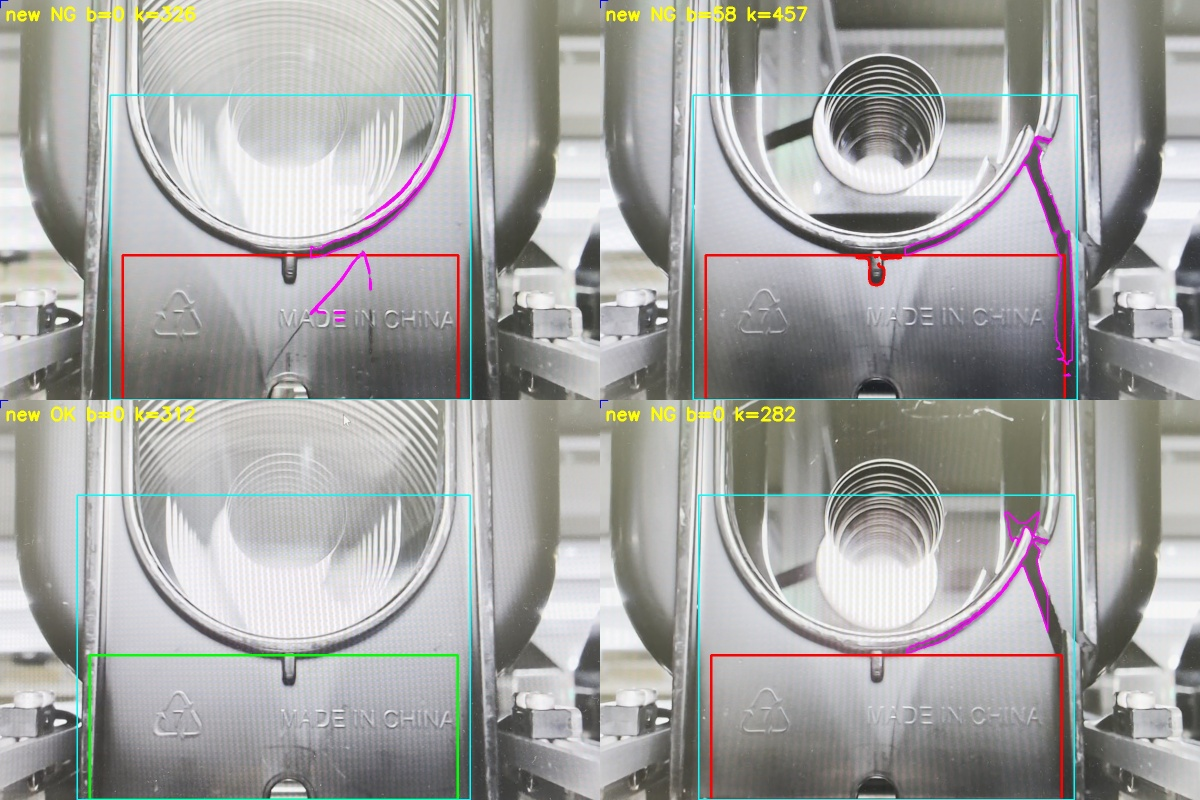
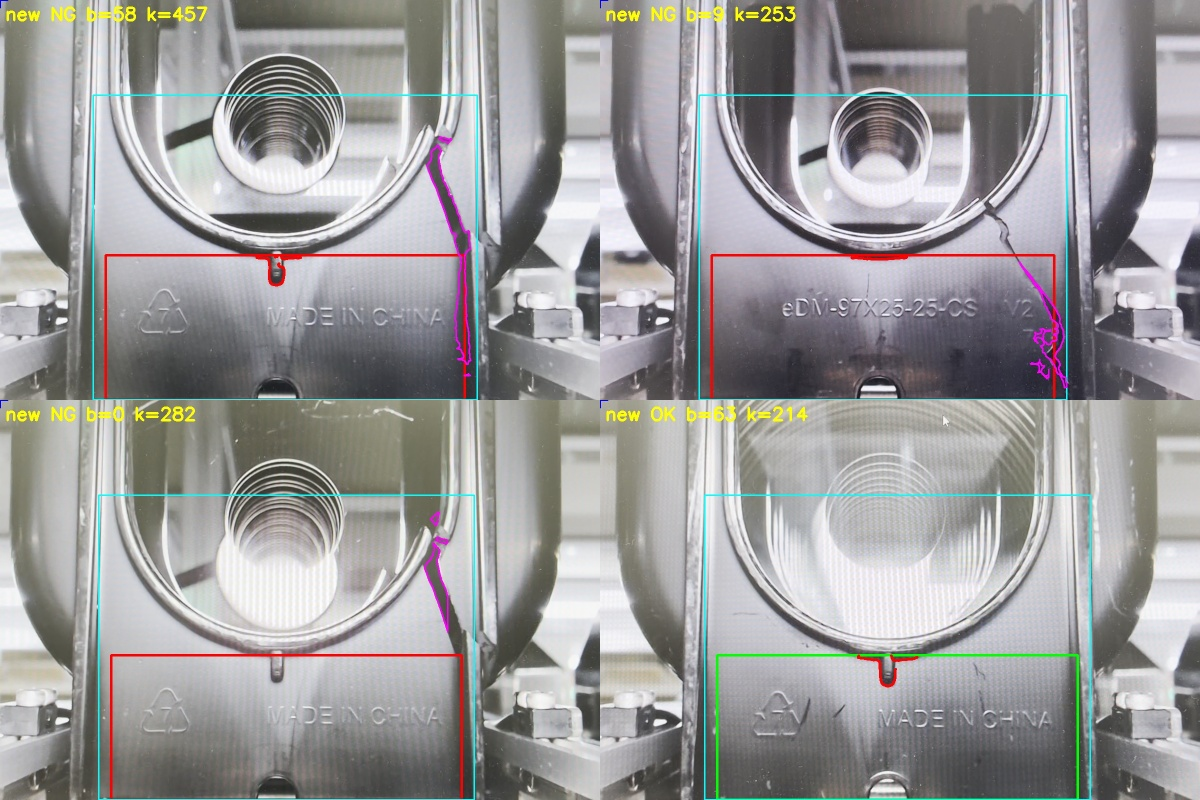
黒ワレ判定からU字の形（中心・半径・円）を外す
縁取りは周りより明るい細い線として画像から拾い、外縁からの距離で線の内側の端を決める。
縁取り沿いの暗い輪郭は、縁から離れた部分の長さで除く。

Claude-Session: https://claude.ai/code/session_01AGHVZAzegJVfdU4wL5nFmJ

diff --git a/legacy/inspect_crack_v2.py b/legacy/inspect_crack_v2.py
@@ -120,25 +120,31 @@ DEFAULT_PARAMS = {
     "template_threshold": 0.0,
     # ---- v2 の黒ワレ判定用 ----
     "black_groove_dist": 60,    # 端からこの距離以内を縦に走る細い線は「縦リブの内側の溝」とみなして除く [px]
-    "black_groove_width": 30, "black_groove_frac": 0.5, "black_groove_pad": 12,   # その線の横幅がこれ未満なら溝（割れは斜めに走るので横幅が出る） [px]
+    "black_groove_width": 30,   # その線の横幅がこれ未満なら溝（割れは斜めに走るので横幅が出る） [px]
+    "black_groove_frac": 0.5,   # 端の近くで、列の高さのこの割合以上が暗い列は溝として消す
+    "black_groove_pad": 12,     # 溝の列の左右この幅も一緒に消す [px]
     "black_edge_margin": 15,    # カセットの左右の端からこの幅は探さない（縦リブの黒い線） [px]
     "black_top_cut": 0.2,       # 切り出しの上からこの割合 × radius の行は見ない（カセットの上の縁を拾わないため）
-    "black_inner_ratio": 1.0,   # 探す範囲の内側の円の半径（radius の何倍か）
     "black_gate_half": 40,      # 中央のゲート（成形線）として除外する幅の半分 [px]
     "black_bh_th": 20,          # ブラックハット（周りより暗い度合い）がこれより大きい画素を黒い線とみなす
     "black_join": 9,            # 途切れた線をつなぐ大きさ [px]
     "black_link": 25,           # 暗いと認めた線どうしがこの距離以内なら同じ割れとしてまとめる [px]
     "black_dark_ratio": 0.55,   # 線の中の暗い所（下位10%）が、プレートの明るさのこの割合以下なら本物の黒い線
-    "black_rim_tol": 30,        # 線の上端のまわりこの距離以内（中心寄り）に白い縁取りがあれば「縁に届いた」 [px]
-    "black_rim_bright": 0.5,    # 縁取りの白さの目安: プレートの明るさと、U字のまわりの上位1%の明るさの間のこの位置
-    "black_follow_len": 120,    # 線の上の端から縁取りまで、暗い所をたどる最大の長さ [px]
+    "black_rim_tol": 30,        # 線の内側の端のまわりこの距離以内に白い縁取りがあれば「縁に届いた」 [px]
+    "black_follow_len": 200,    # 線の内側の端から縁取りまで、暗い所をたどる最大の長さ [px]
     "black_follow_ratio": 0.80, # たどるとき「暗い」とみなす明るさ（プレートの明るさのこの割合以下）
     "black_follow_side": 4,     # たどるとき、横に何 px まで暗い所を探すか
     "black_follow_contrast": 15,  # まわりよりこれだけ暗ければ、割れの続きとみなす
     "black_follow_gap": 12,     # 暗くない所がこれ以上続いたら、つながっていないとみなす [px]
-    "black_min_radial": 0.5,    # 線が中心から外へ向かって radius のこの割合以上伸びていること（縁に沿う暗い輪郭を除く）
+    "black_min_len": 150,       # 割れとみなす線の長さの下限 [px]
+    "black_rim_len": 200,       # 白く光る細い線がこれ以上長ければ縁取りとみなす [px]
+    "black_far_dist": 30,       # 縁取りからこれより離れた部分を「縁から離れた部分」とする [px]
+    "black_far_len": 100,       # 縁から離れた部分の長さの下限 [px]
+    "black_rim_tophat": 25,     # 周りよりこれだけ明るい細い線を縁取りとする（「縁に届いた」の判定用）
+    "black_rim_tophat_soft": 15,  # 縁沿いの輪郭を見分ける用は、これだけ明るければ縁取りに数える
+    "black_hug_dist": 15,        # 縁取りからこの距離 [px] 以内の暗い画素は使わない（縁取りの暗い輪郭）
     "black_vline_width": 25,    # 左右のぶれがこれ未満のまっすぐ縦の線は、リブの縁の線として除く [px]
-    "black_outer_bottom": True,   # True なら ROI の下端も「外縁」に数える（黒ワレは左右のリブで終わるので既定は False）
+    "black_outer_bottom": True,   # True なら探す範囲の下端も「外縁」に数える
     "black_edge_tol": 12,       # ROI の左右の端・下端からこの距離以内に届いていれば「外縁に届いた」
 }
 
@@ -342,9 +348,9 @@ class BaseCrackInspector:
         cx,
         radius,
     ):
-        """黒ワレ判定 v2: U字の縁から外縁まで黒い線がつながっていれば NG。"""
+        """黒ワレ判定 v2: 白く光る縁取りから外縁まで黒い線がつながっていれば NG（U字の形・中心は使わない）。"""
         p = self.params
-        # 探す範囲は赤い ROI ではなく、カセットのプレート全体（左右はカセットの端まで、上は U字の脚まで）
+        # 探す範囲は赤い ROI ではなく、カセットのプレート全体（左右はカセットの端まで）
         roi_left, roi_right = left_lim, right_lim
         if getattr(self, "_cassette_lr", None) is not None:
             left_lim = max(0, int(self._cassette_lr[0]))
@@ -354,15 +360,14 @@ class BaseCrackInspector:
         if ary_interest.size == 0:
             raise RuntimeError("黒ワレ検出用ROIが空です")
         h, w = ary_interest.shape
-        cxl = cx - left_lim                          # 切り出し画像の中での U字の中心 x
-        cy_l = 0                                     # U字の円の中心 y（切り出し画像の上端）
+        cxl = cx - left_lim                          # 切り出し画像の中でのカセットの中心 x（ゲートの位置）
         y_top_l = top_lim - y0                       # 元の ROI の上端（U字の底のあたり）
 
-        # 探す範囲: U字の外側の帯（元と同じ円の帯）。中央はゲートの所だけ除く
+        # 探す範囲: 長方形（水色）。中央はゲートの所だけ除く
         mask = np.full_like(ary_interest, 255)                # プレート全体（元は半径 1.75R の円の中だけ）
         # U字の形は写真ごとのブレが大きく当てられないので、開口部を切り抜くことはしない（長方形のまま）。
         # 開口部の中の暗い線は白い縁取りを越えて外縁まで届かないので、あとの「縁から外縁まで」の判定で落ちる
-        mask[:int(radius * p["black_top_cut"])] = 0         # U字の脚の上の方まで見る（元は radius/2 より上を捨てていた）
+        mask[:int(radius * p["black_top_cut"])] = 0         # 上の方（カセットの上の縁）は見ない
         em = p["black_edge_margin"]                          # カセットの左右の端（縦リブの黒い線）は割れではないので除く
         mask[:, :em] = 0
         mask[:, max(0, w - em):] = 0
@@ -396,40 +401,66 @@ class BaseCrackInspector:
         out_l = int(cols[cols < w // 2].max()) + 1 if (cols < w // 2).any() else 0
         out_r = int(cols[cols >= w // 2].min()) if (cols >= w // 2).any() else w
 
-        # 周りのプレートの明るさ（相対的な暗さの基準）
-        # 基準は元と同じ「U字のまわりの円の帯（R〜1.75R）」で測る（プレート全体だと縦リブや背景の明るさが混ざる）
-        ref = np.zeros_like(mask)
-        cv2.circle(ref, (cxl, cy_l), int(radius * 1.75), 255, -1)
-        cv2.circle(ref, (cxl, cy_l), radius, 0, -1)
-        ref &= mask
-        plate = float(np.median(ary_interest[ref > 0])) if (ref > 0).any() else 255.0
+        # 外縁 = 縦リブの内側の線。元の赤い ROI の左右の辺がだいたいそこなので、それも外縁に数える
+        # （溝が見つかった時はその溝、見つからない時は ROI の辺。どちらか内側の方）
+        e = p["black_edge_tol"]
+        near_outer = np.zeros((h, w), bool)
+        in_l = max(em, out_l, roi_left - left_lim)
+        in_r = min(w - em, out_r, roi_right - left_lim)
+        near_outer[:, :max(0, in_l) + e] = True              # 除いた帯（端・溝・リブ）のすぐ内側まで来ていれば「外縁に届いた」
+        near_outer[:, max(0, in_r - e):] = True
+        if p["black_outer_bottom"]:
+            near_outer[h - e:, :] = True                         # 下端も外縁に数える
+        # 外縁からの距離。線の「内側の端」= 外縁から一番遠い所（U字の形は使わない）
+        d_out = cv2.distanceTransform((~near_outer).astype(np.uint8), cv2.DIST_L2, 5)
 
-        yy, xx = np.mgrid[0:h, 0:w]
-        dist_center = np.hypot(xx - cxl, yy - cy_l)
-        # 縁に届いたかは局所的に見る: 線の一番中心寄りの点から中心へ向かって rim_tol px 以内に
-        # 白く光る縁取り（プレートより十分明るい画素が 3px 続く所）があれば「縁に届いた」
-        ring = (dist_center > 0.8 * radius) & (dist_center < 1.3 * radius) & (yy > radius // 2)
-        top_bright = float(np.percentile(ary_interest[ring], 99)) if ring.any() else 255.0   # U字のまわりの一番明るい所
-        bright_th = plate + p["black_rim_bright"] * (top_bright - plate)
-        # 白く光る所のうち、U字の縁取りのように長く続く帯だけを「縁」とする（白い擦り傷や刻印は短いので除く）
-        bn, blab, bstats, _ = cv2.connectedComponentsWithStats((ary_interest > bright_th).astype(np.uint8))
+        # 周りのプレートの明るさ（相対的な暗さの基準）: 元の赤い ROI の中の明るさの中央値
+        plate = float(np.median(ary_interest[mask > 0])) if (mask > 0).any() else 255.0
+        # 白く光る縁取り: プレートより十分明るく、長く続く帯（白い擦り傷や刻印は短いので除く）
+        # 縁取りは「周りより明るい細い線」。明るさそのもので決めると、画面の写真では明るく写った面全体が入ってしまう。
+        # トップハット（周り 15px より明るい分）で細い線だけを取り出す
+        tophat = cv2.morphologyEx(ary_interest, cv2.MORPH_TOPHAT,
+                                  cv2.getStructuringElement(cv2.MORPH_ELLIPSE, (15, 15)))
+        thin_bright = (tophat > p["black_rim_tophat"]).astype(np.uint8)
+        thin_bright = cv2.morphologyEx(thin_bright, cv2.MORPH_CLOSE, np.ones((3, 3), np.uint8))
+        bn, blab, bstats, _ = cv2.connectedComponentsWithStats(thin_bright)
         big = np.zeros(bn, bool)
-        big[1:] = np.maximum(bstats[1:, cv2.CC_STAT_WIDTH], bstats[1:, cv2.CC_STAT_HEIGHT]) >= 0.6 * radius
+        big[1:] = np.maximum(bstats[1:, cv2.CC_STAT_WIDTH], bstats[1:, cv2.CC_STAT_HEIGHT]) >= p["black_rim_len"]
         rim_band = big[blab]
+        # 縁に沿う輪郭を見分ける用には、もっと弱い白い線も縁取りに数える（縁取りの写り方は写真ごとに違う）
+        thin_soft = cv2.morphologyEx((tophat > p["black_rim_tophat_soft"]).astype(np.uint8), cv2.MORPH_CLOSE,
+                                     np.ones((3, 3), np.uint8))
+        sn2, slab2, sst2, _ = cv2.connectedComponentsWithStats(thin_soft)
+        big2 = np.zeros(sn2, bool)
+        big2[1:] = np.maximum(sst2[1:, cv2.CC_STAT_WIDTH], sst2[1:, cv2.CC_STAT_HEIGHT]) >= p["black_rim_len"]
+        rim_soft = big2[slab2]
+        # 縁取りのすぐそば。縁取りに沿って走る暗い輪郭を割れと間違えないよう、ここの暗い画素は使わない
+        hd = p["black_hug_dist"]
+        rim_near = cv2.dilate(rim_soft.astype(np.uint8),
+                              cv2.getStructuringElement(cv2.MORPH_ELLIPSE, (2 * hd + 1, 2 * hd + 1))) > 0
+
+        # 縁取りからの距離。U字の縁に沿う暗い輪郭は、ずっと縁取りのそば（数十 px 以内）にいる。
+        # 割れは縁取りから離れて外縁まで伸びる
+        # 縁取りの白い線は所々で途切れて写るので、途切れを埋めてから距離を測る
+        rim_closed = cv2.morphologyEx(rim_soft.astype(np.uint8), cv2.MORPH_CLOSE,
+                                      cv2.getStructuringElement(cv2.MORPH_ELLIPSE, (31, 31)))
+        d_rim = cv2.distanceTransform((rim_closed == 0).astype(np.uint8), cv2.DIST_L2, 5)
 
         def follow_to_rim(comp):
-            """割れの根元（縁取りの近く）は細く薄くて途切れやすい。線の上の端から、線の向きに沿って
-            中心の方へ暗い所をたどり、白い縁取りの帯まで暗いままつながっていれば True。"""
+            """割れの根元（縁取りの近く）は細く薄くて途切れやすい。線の内側の端（外縁から一番遠い所）から、
+            線の向きに沿って外縁と反対の方へ暗い所をたどり、白い縁取りの帯まで暗いままつながっていれば True。"""
             ys, xs = np.nonzero(comp)
-            d = dist_center[ys, xs]
-            top = d <= np.percentile(d, 30)                     # 線の中心寄り 3割の点で向きを測る
+            d = d_out[ys, xs]
+            top = d >= np.percentile(d, 70)                     # 線の内側 3割の点で向きを測る
             if top.sum() < 5:
                 return False
             pts = np.c_[xs[top], ys[top]].astype(np.float32)
-            vx, vy, x0_, y0_ = cv2.fitLine(pts, cv2.DIST_L2, 0, 0.01, 0.01).ravel()
-            i0 = int(np.argmin(d))
+            vx, vy, _, _ = cv2.fitLine(pts, cv2.DIST_L2, 0, 0.01, 0.01).ravel()
+            i0 = int(np.argmax(d))
             x, y = float(xs[i0]), float(ys[i0])
-            if vx * (cxl - x) + vy * (cy_l - y) < 0:            # 中心の方へ向ける
+            # 外縁から遠ざかる向きにそろえる
+            qx, qy = int(np.clip(round(x + 10 * vx), 0, w - 1)), int(np.clip(round(y + 10 * vy), 0, h - 1))
+            if d_out[qy, qx] < d_out[int(y), int(x)]:
                 vx, vy = -vx, -vy
             dark_th = p["black_follow_ratio"] * plate
             miss = 0
@@ -460,16 +491,11 @@ class BaseCrackInspector:
             return False
 
         def touches_rim(comp):
+            """線の内側の部分（外縁から遠い方 3割）のどこかで、まわり（半径 rim_tol）に
+            白く光る縁取りが 15 画素以上あれば「縁に届いた」"""
             ys, xs = np.nonzero(comp)
-
-            # 縁は U字のまわり（ROI の上端 = U字の底より上）にある。それより下の刻印の白い所を縁と間違えない
-            if ys.min() > y_top_l + p["black_rim_tol"]:
-                return False
-            # 線の中心寄りの部分（中心からの距離が近い方 3割）の点を順に見て、どこかで
-            # まわり（半径 rim_tol）の中心寄り半分に、白く光る縁取りが 15 画素以上あれば「縁に届いた」とする。
-            # 探す範囲を長方形にしたので、線の上の端が縁より先（開口部側）まで伸びていることがあり、端の 1点だけでは見ない
-            d = dist_center[ys, xs]
-            idx = np.nonzero(d <= np.percentile(d, 30))[0]
+            d = d_out[ys, xs]
+            idx = np.nonzero(d >= np.percentile(d, 70))[0]
             r = p["black_rim_tol"]
             for i in idx[::max(1, len(idx) // 20)]:
                 px, py = float(xs[i]), float(ys[i])
@@ -477,21 +503,9 @@ class BaseCrackInspector:
                 y0_, y1_ = int(max(0, py - r)), int(min(h, py + r + 1))
                 gy, gx = np.mgrid[y0_:y1_, x0:x1]
                 disc = np.hypot(gx - px, gy - py) <= r
-                inward = dist_center[y0_:y1_, x0:x1] <= dist_center[int(py), int(px)] + 3
-                if int((rim_band[y0_:y1_, x0:x1] & disc & inward).sum()) >= 15:
+                if int((rim_band[y0_:y1_, x0:x1] & disc).sum()) >= 15:
                     return True
             return False
-
-        e = p["black_edge_tol"]
-        near_outer = np.zeros((h, w), bool)
-        # 外縁 = 縦リブの内側の線。元の赤い ROI の左右の辺がだいたいそこなので、それも外縁に数える
-        # （溝が見つかった時はその溝、見つからない時は ROI の辺。どちらか内側の方）
-        in_l = max(em, out_l, roi_left - left_lim)
-        in_r = min(w - em, out_r, roi_right - left_lim)
-        near_outer[:, :max(0, in_l) + e] = True              # 除いた帯（端・溝・リブ）のすぐ内側まで来ていれば「外縁に届いた」
-        near_outer[:, max(0, in_r - e):] = True
-        if p["black_outer_bottom"]:
-            near_outer[h - e:, :] = True                         # 下端も外縁に数える（既定は数えない）
 
         # 1) 線の一つ一つについて、周りより十分暗いか（汚れ・影は除く）
         n, lab, stats, _ = cv2.connectedComponentsWithStats(binary)
@@ -502,6 +516,9 @@ class BaseCrackInspector:
                 continue
             comp = lab == i
             if float(np.percentile(ary_interest[comp], 10)) > p["black_dark_ratio"] * plate:
+                continue
+            comp = comp & ~rim_near
+            if comp.sum() < 30:
                 continue
             strong[comp] = 1
             heights.append(int(stats[i, cv2.CC_STAT_HEIGHT]))
@@ -517,9 +534,8 @@ class BaseCrackInspector:
             comp = (grp == gi) & (strong > 0)
             if not comp.any():
                 continue
-            dc = dist_center[comp]
-            radial = float(dc.max() - dc.min())                  # 中心から外へ向かう長さ（縁に沿う影は小さい）
             ys_, xs_ = np.nonzero(comp)
+            length = float(np.hypot(np.ptp(xs_), np.ptp(ys_)))   # 線の長さ（外接する四角の対角線）
             gate_line = np.mean(np.abs(xs_ - cxl) < p["black_gate_half"] * 2) > 0.5   # 大部分がゲートの真下（成形線）
             # 縦リブの内側の溝: 端の近くを、ほぼ縦にまっすぐ走る線（割れは端に向かって斜めに横切る）
             edge_d = np.minimum(xs_, w - 1 - xs_)
@@ -529,7 +545,19 @@ class BaseCrackInspector:
             # まっすぐ縦に走る細い線（リブの縁の線）は割れではない。本物の割れは縦長でも左右に 30px 以上ぶれる
             if (xs_.max() - xs_.min()) < p["black_vline_width"]:
                 continue
-            if (near_outer[comp].any() and radial >= p["black_min_radial"] * radius
+            # 縁取りから離れた部分だけで見ても、長さがあり外縁に届いていること（縁沿いの輪郭はここで落ちる）
+            far = comp & (d_rim > p["black_far_dist"])
+            if far.sum() < 30:
+                continue
+            fy, fx = np.nonzero(far)
+            if np.hypot(np.ptp(fx), np.ptp(fy)) < p["black_far_len"] or not near_outer[far].any():
+                continue
+            # 細かい汚れや刻印がたくさん集まっただけのまとまりは割れではない。一本の線として十分長い部分があること
+            sn, slab, sst, _ = cv2.connectedComponentsWithStats(comp.astype(np.uint8))
+            longest = max(np.hypot(sst[j, cv2.CC_STAT_WIDTH], sst[j, cv2.CC_STAT_HEIGHT]) for j in range(1, sn))
+            if longest < p["black_far_len"]:
+                continue
+            if (near_outer[comp].any() and length >= p["black_min_len"]
                     and not gate_line and (touches_rim(comp) or follow_to_rim(comp))):
                 crossing += cv2.findContours(comp.astype(np.uint8), cv2.RETR_EXTERNAL,
                                              cv2.CHAIN_APPROX_SIMPLE)[-2]
